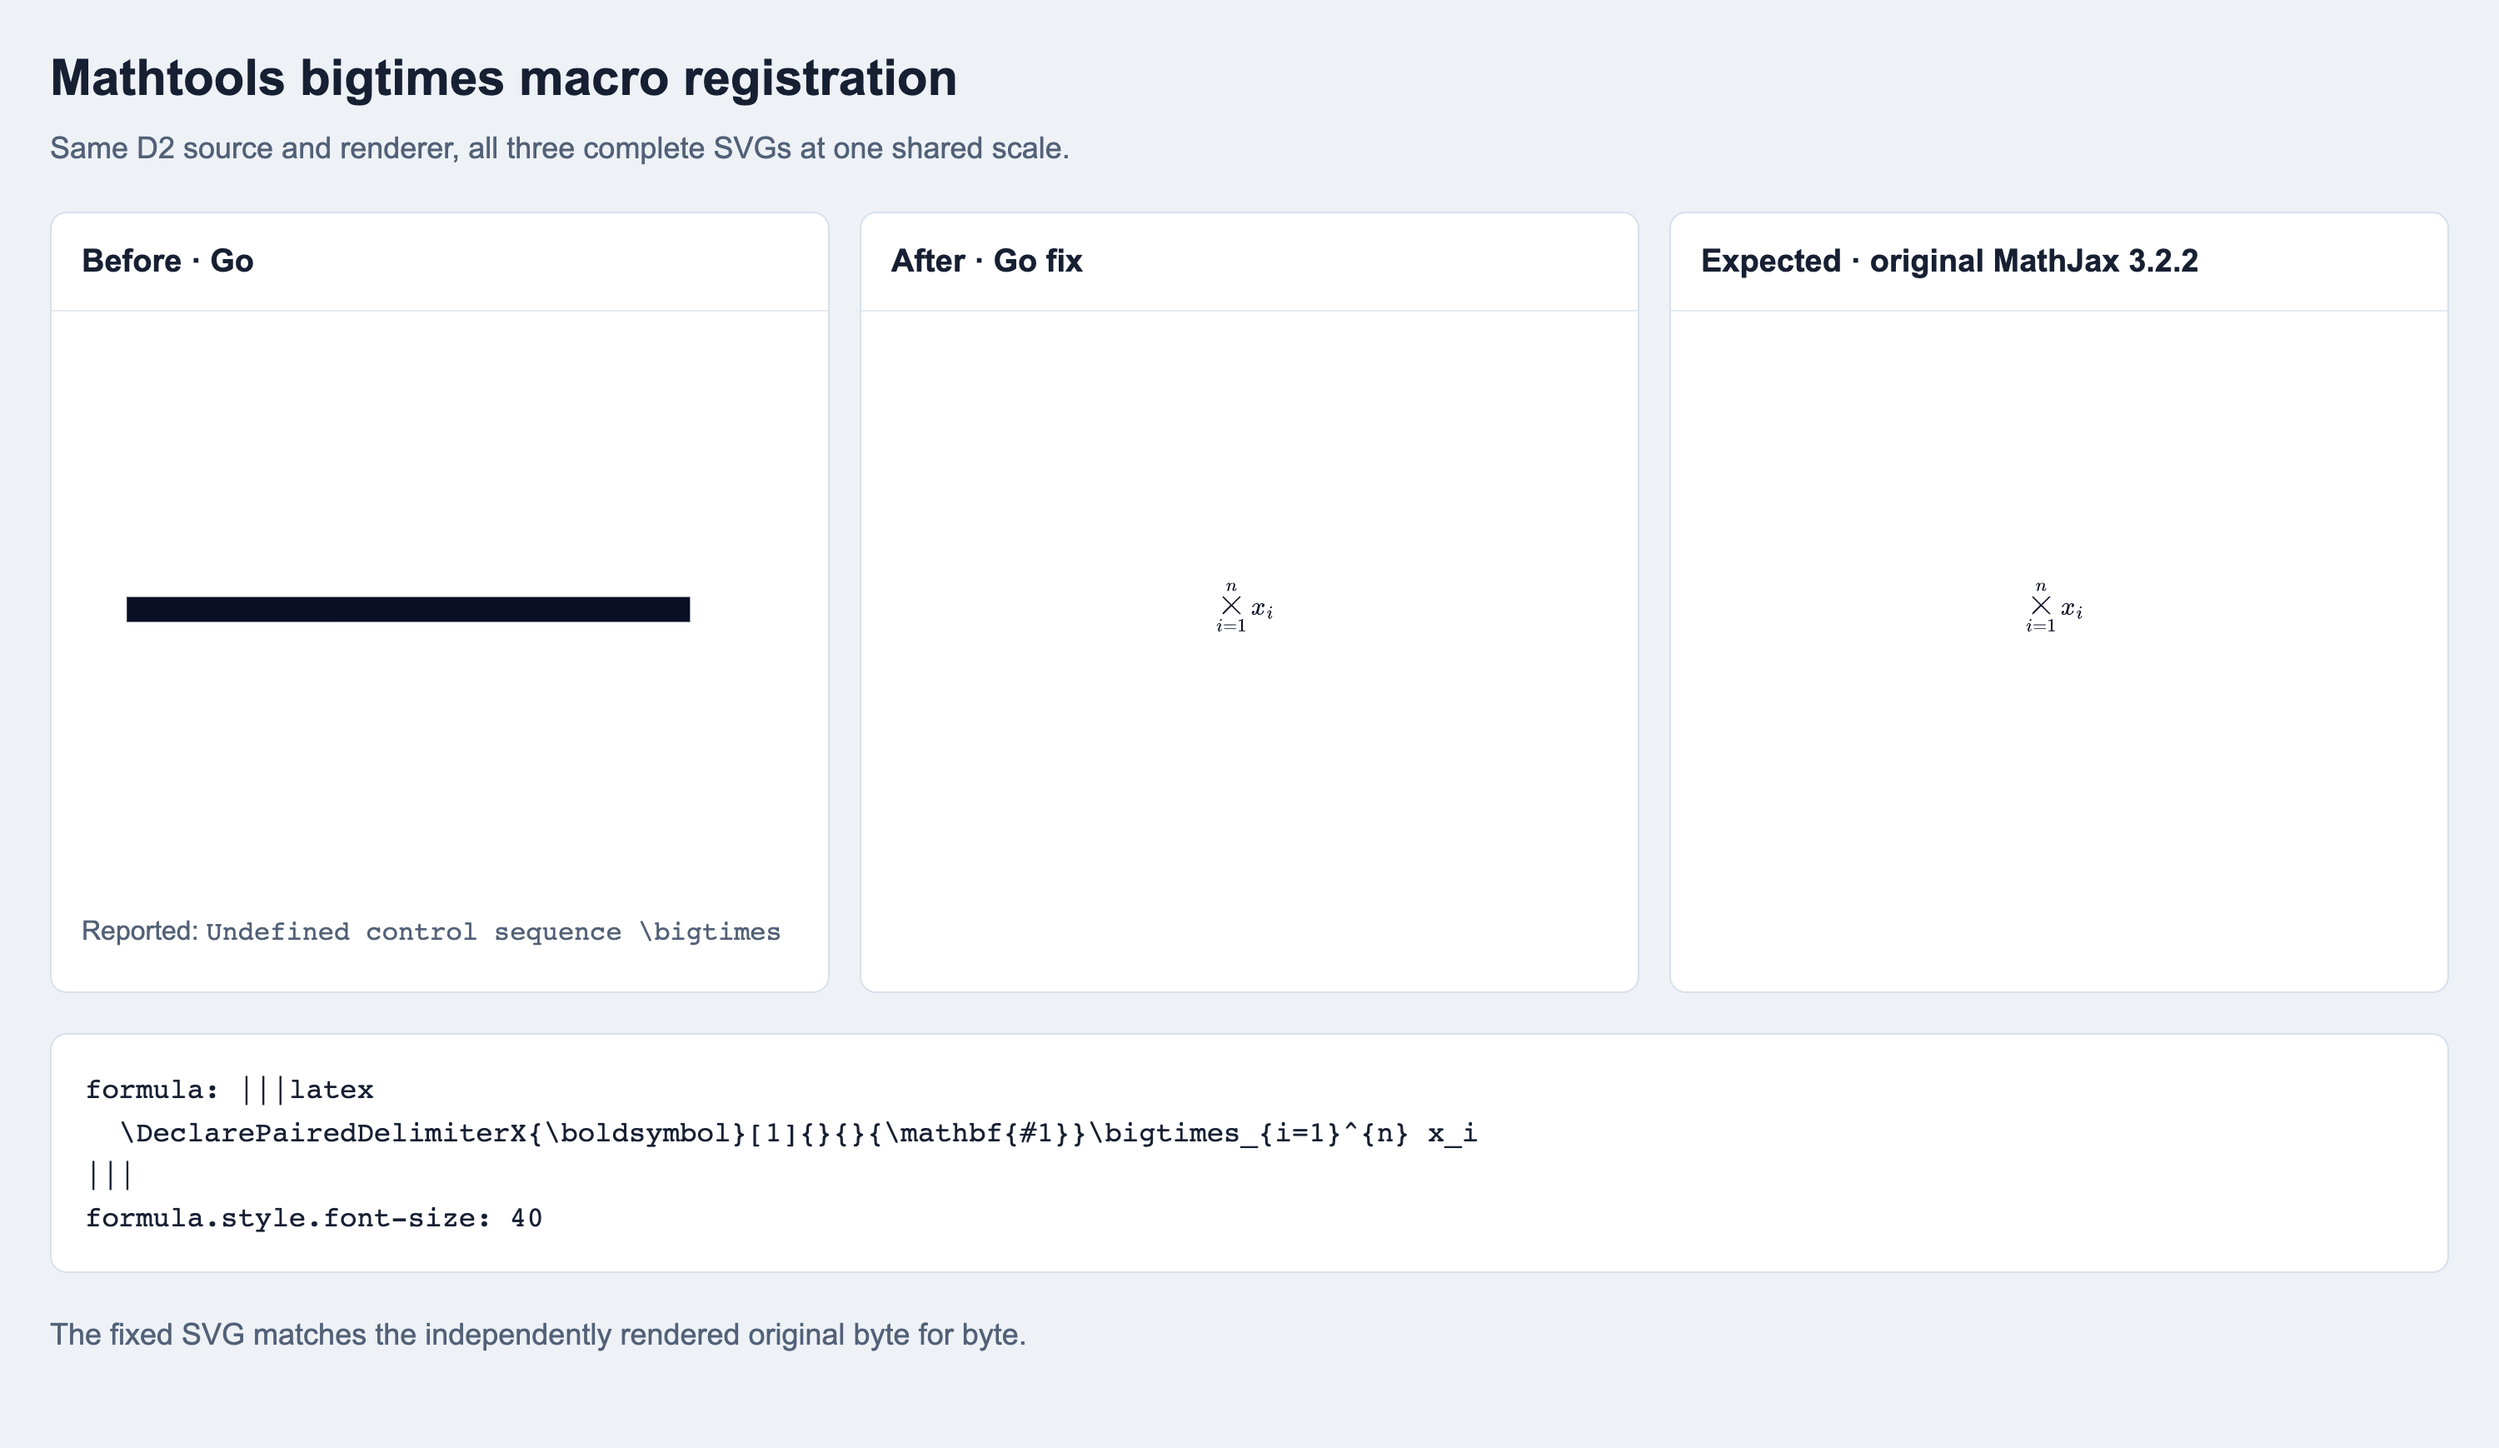
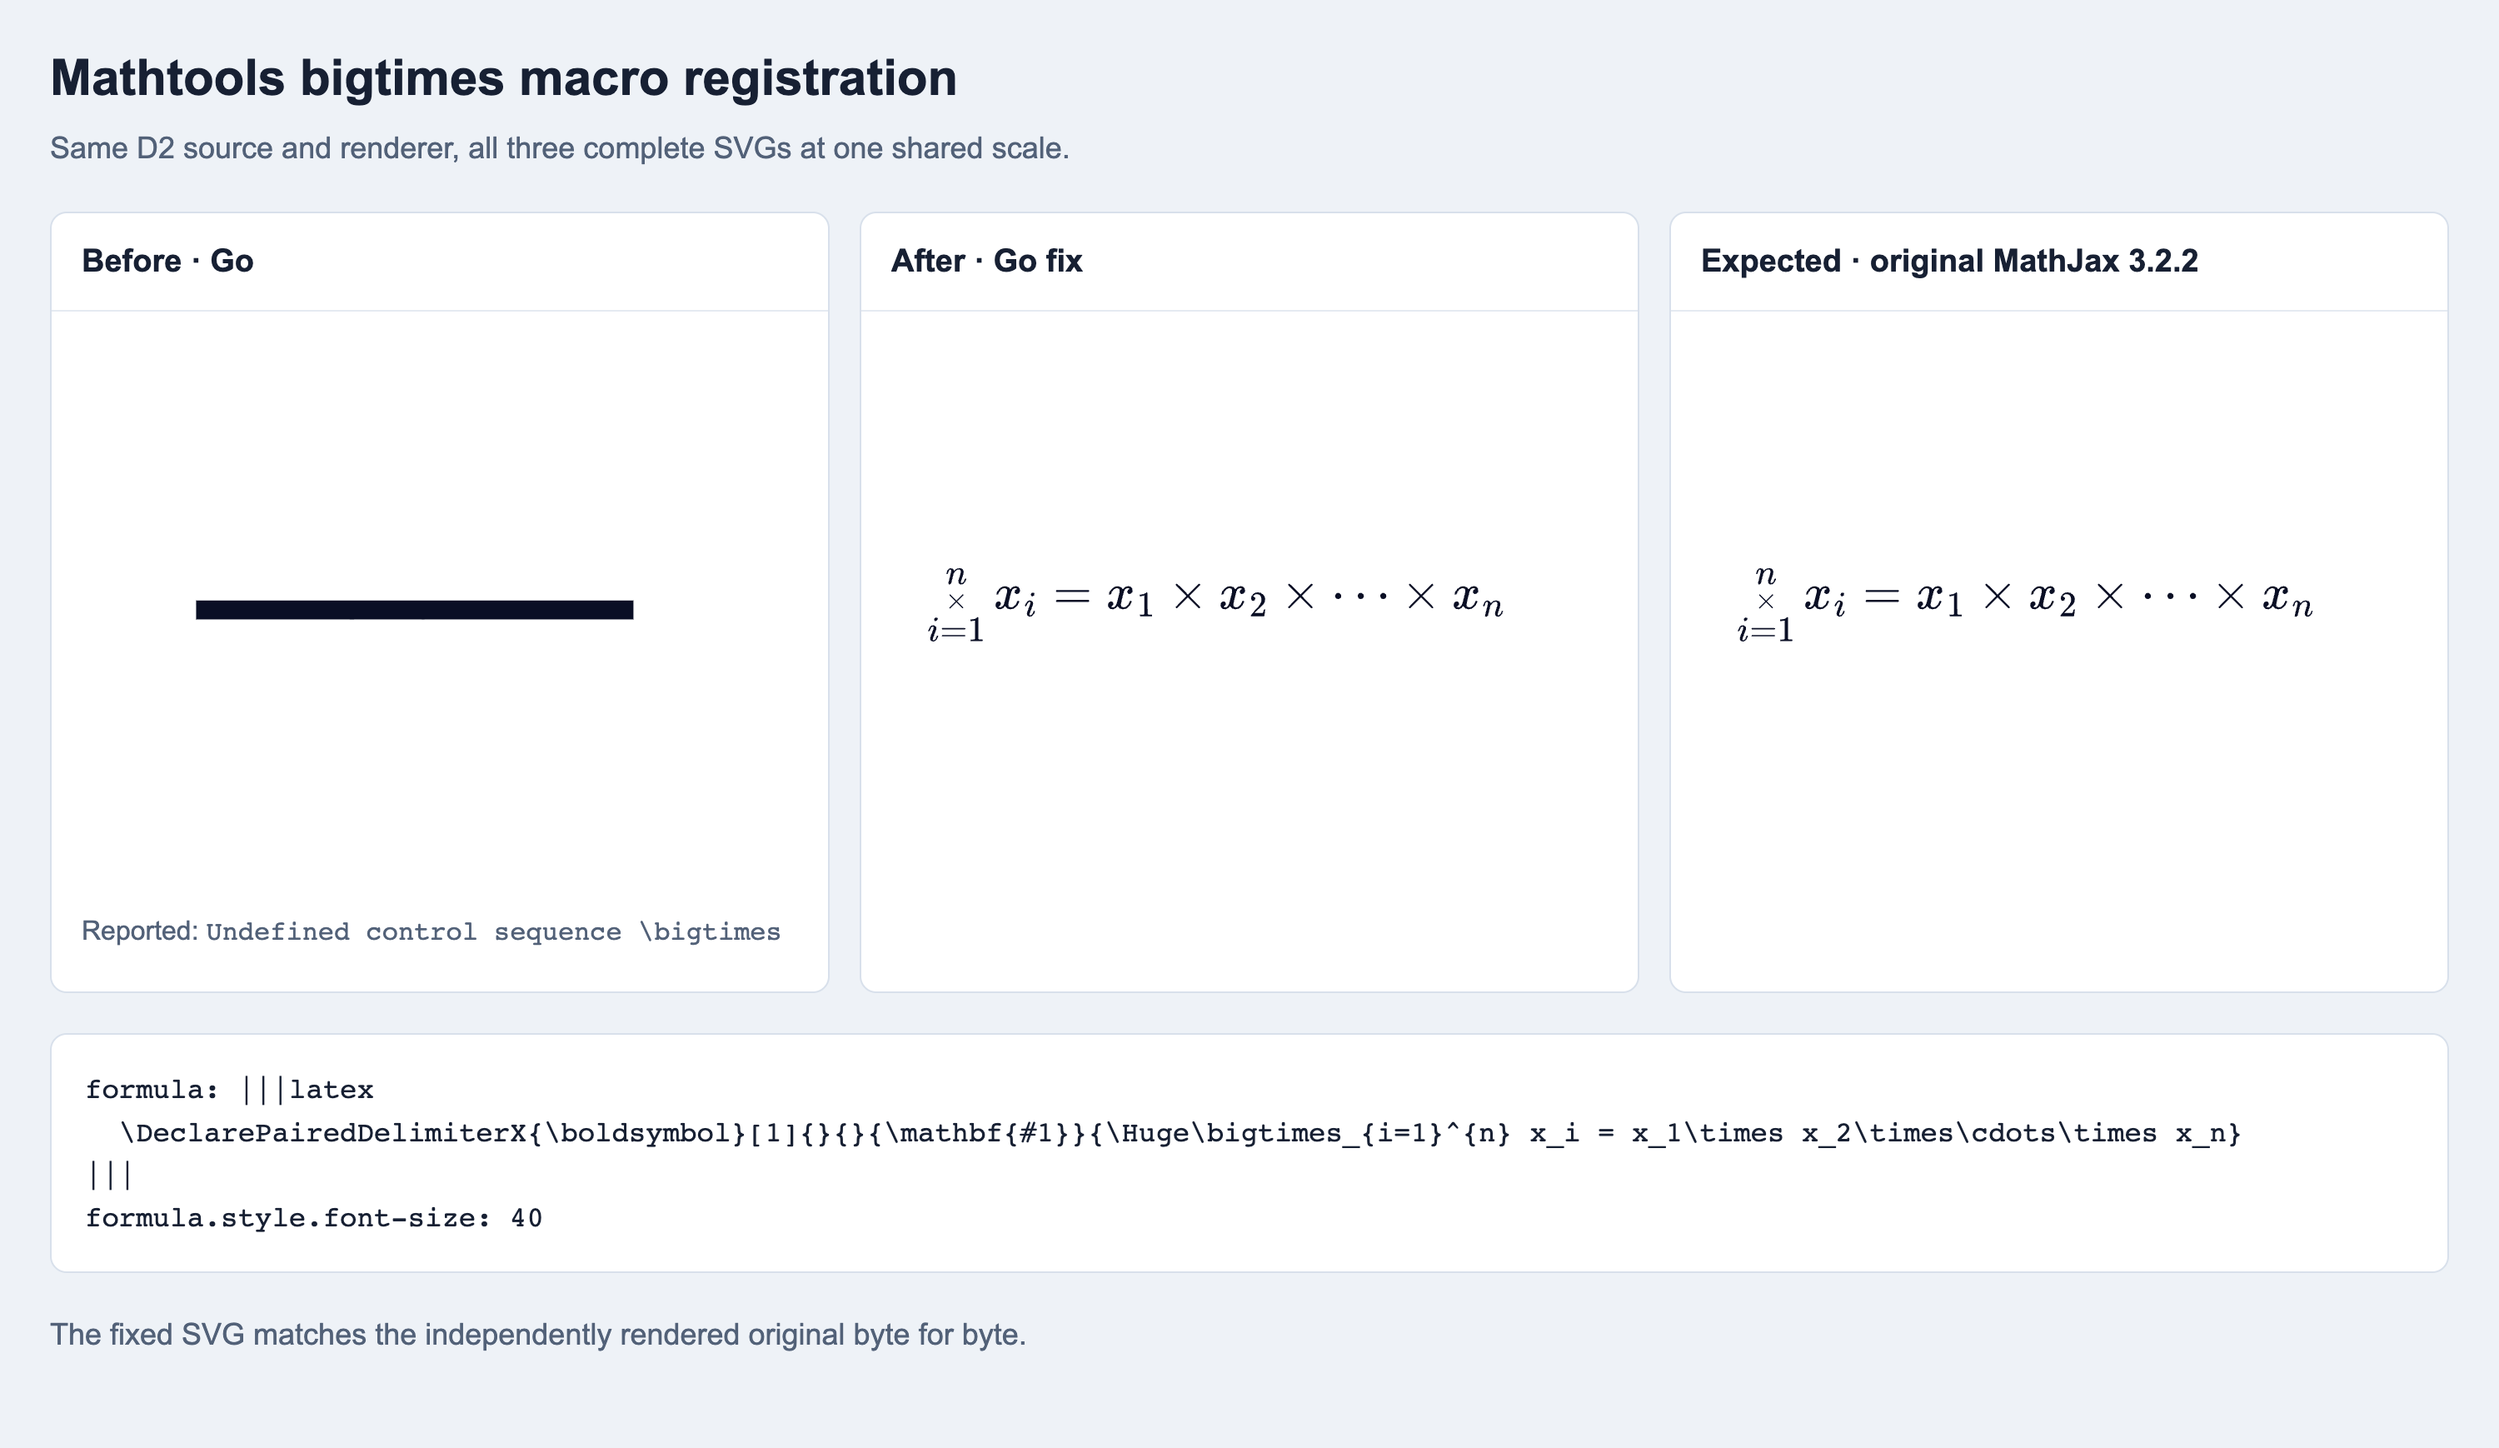
Make the bigtimes D2 product witness legible
- sent from alixander's Codex

diff --git a/testdata/parity/mathtools-bigtimes-registration/README.md b/testdata/parity/mathtools-bigtimes-registration/README.md
@@ -1,6 +1,6 @@
 # Mathtools bigtimes macro registration
 
-The documented singular `\DeclarePairedDelimiterX` command defines `\boldsymbol` through active Mathtools syntax. The exact original `\bigtimes` macro then renders a large multiplication operator with lower and upper limits. Before the fix Go reports an undefined bigtimes command; after restoring the exact original macro registration, the complete D2 output matches the original.
+A documented Mathtools declaration supplies a bold formatter, then bigtimes renders a full product equality with lower and upper operator limits. Before the fix Go reports an undefined bigtimes command; after restoring the exact original macro registration, the complete D2 output matches the original.
 
 `comparison.png` is a Chromium screenshot of three complete, untouched D2 SVGs at one shared scale. The fixed/original SVGs and PNGs are byte-identical. The original is independently rendered through D2's hash-verified MathJax 3.2.2 bundle in a fresh runtime. See `manifest.json` for renderer/source revisions and all artifact hashes.
 
@@ -14,4 +14,6 @@ go build -o /tmp/d2-parity .
 
 For the independent original, use `testdata/parity/accent-italic-correction/oracle-adapter` as the replacement. Set `MATHJAX_GO_NODE`, `MATHJAX_GO_ORACLE_SCRIPT`, and `MATHJAX_GO_ORACLE_DIR` to Node, `testdata/differential/oracle.mjs`, and the pinned assets. The regression generator uses only the original runtime for expected outputs. These finite checks do not establish universal MathJax parity.
 
-The before binary is the verified canonical main at `fe29d3a`; the fixed source is `e21f531`. The regression fixture contains 358 valid original SVGs, repairing 170 valid compositions while retaining 188 exact independent controls. Ten complete bare-command original diagnostics are retained separately with zero valid-original or diagnostic-parity credit: the original package set lacks `boldsymbol`, while Go intentionally provides it. This patch restores only the original `bigtimes` macro registration. See [regression scope and generator](../../mathtools_bigtimes_README.md).
+The singular documented `\DeclarePairedDelimiterX` declaration supplies the authored formatter. The `\Huge` group makes the complete product equality legible at the shared screenshot scale. The before renderer uses verified canonical main `fe29d3ad1b32f04ce864e0b410267e5b6d666c99`; the fixed registration is source commit `e21f53151ff810ed20879c97e5760cf5cf9705e2`, with the full witness bound into the frozen references at `35ca91f962b2b67fe598da3aed6b243a1a0e6f61`.
+
+The [regression scope and generator](../../mathtools_bigtimes_README.md) preserve 358 valid-original SVGs: 170 repaired formulas and 188 independent controls. Ten bare-command original diagnostics remain separately retained and receive zero original-valid or diagnostic parity credit: the existing Go-only `boldsymbol` formatter remains available, while the original frozen package set omits that dependency. The production change restores only the exact original `bigtimes` registration.
